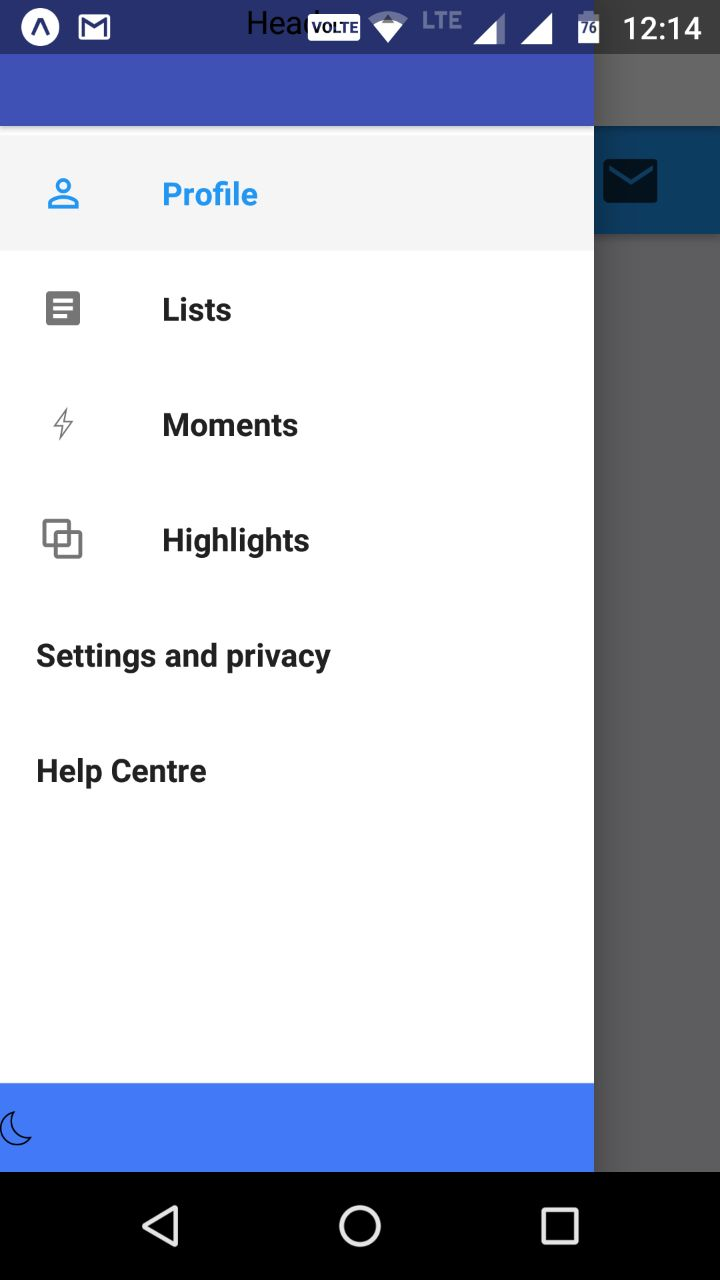
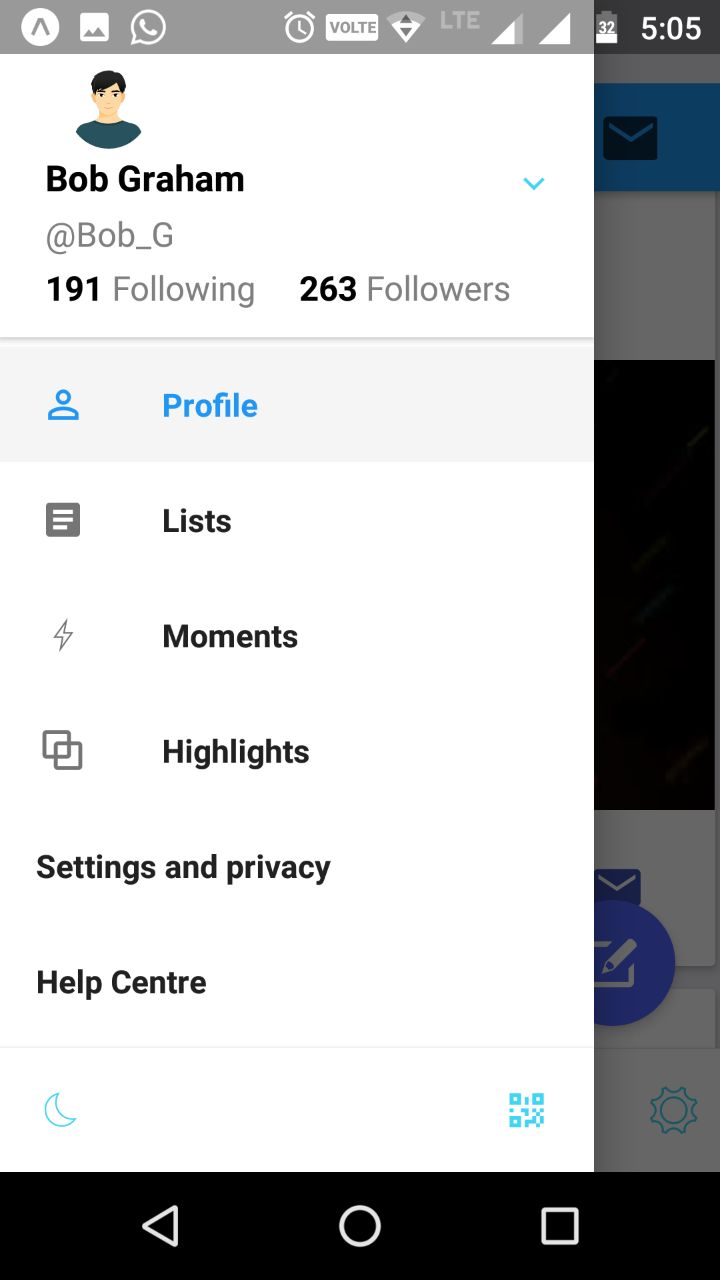
styles and config

diff --git a/Home.js b/Home.js
@@ -1,20 +1,16 @@
 import React from 'react';
-import { AppRegistry, ScrollView, Image, StyleSheet,TouchableOpacity,View} from 'react-native';
-import { Button,  Icon, Footer, FooterTab, Header, Left,Right,Content,Card,CardItem ,Container,Body,Thumbnail,  Item, Input,  Text,} from "native-base";
-import { EvilIcons,MaterialIcons,Ionicons,MaterialCommunityIcons, Feather } from '@expo/vector-icons';
-import { Font } from 'expo';
+import { AppRegistry, ScrollView, Image, StyleSheet,TouchableOpacity} from 'react-native';
+import { Button,  Icon, Footer, FooterTab, Header, Left,Right,Content,Card,CardItem ,Container,Body,Thumbnail,  Item, Input,  Text,Fab ,View,Spinner} from "native-base";
+import { EvilIcons,MaterialIcons,Ionicons,MaterialCommunityIcons, Feather,Entypo } from '@expo/vector-icons';
+
 export default class Home extends React.Component {
-  componentDidMount() {
-    Font.loadAsync({
-      //'open-sans-bold': require('./assets/fonts/OpenSans-Bold.ttf'),
-      'Roboto_medium': require('./assets/fonts/Roboto-Medium.ttf'),
-    });
-  }
+
+
   static navigationOptions = {
   //  title: 'Home',
     tabBarLabel: 'Home',
     tabBarIcon: ({ tintColor }) => (
-        <Icon name="home" /*style={[{ tintColor: tintColor }]}*/  />
+        <Icon name="home"   />
 
     ),
     header:<View style={{flexDirection:'row'}}><Thumbnail small source={require('./face4.png')} style={{left:10}} /><Text style={{left:15,padding:5, fontSize:20}} >Home</Text></View>
@@ -25,9 +21,23 @@ export default class Home extends React.Component {
 
 
         <Container>
-      <Header />
+
+        <Fab
+          active="false"
+
+          style={{ backgroundColor: '#5067FF',position: "absolute", bottom: 45, right: 0  }}
+          position="bottomRight"
+          >
+
+          <Entypo name="new-message" />
+
+        </Fab>
+
       <Content>
+<Spinner />
+
       <ScrollView>
+
         <Card>
           <CardItem>
             <Left>
@@ -53,7 +63,7 @@ export default class Home extends React.Component {
 
 
               <Button transparent>
-                <EvilIcons name="refresh"  size={20} />
+                <EvilIcons name="retweet"  size={20} />
                 <Text>4</Text>
               </Button>
               <Button transparent>
@@ -94,7 +104,7 @@ export default class Home extends React.Component {
 
 
               <Button transparent>
-                <EvilIcons name="refresh"  size={20} />
+                <EvilIcons name="retweet"  size={20} />
                 <Text>7</Text>
               </Button>
               <Button transparent>
@@ -135,7 +145,7 @@ export default class Home extends React.Component {
 
 
               <Button transparent>
-                <EvilIcons name="refresh"  size={20} />
+                <EvilIcons name="retweet"  size={20} />
                 <Text>10</Text>
               </Button>
               <Button transparent>
@@ -152,8 +162,9 @@ export default class Home extends React.Component {
           </CardItem>
         </Card>
         </ScrollView>
+
       </Content>
-      <Footer>
+      <Footer style={{backgroundColor:"white"}}>
 
 
 
@@ -165,7 +176,7 @@ export default class Home extends React.Component {
 
 
           <Right >
-            <Icon style={styles.bigblue} name="ios-settings-outline" />
+            <Icon style={styles.bigblue} name="ios-settings-outline" size={20} />
 
           </Right>
 
@@ -173,19 +184,19 @@ export default class Home extends React.Component {
 
     </Container>
 
-    );
-  }
+  );
+}
 }
 const styles = StyleSheet.create({
   bigblue: {
     padding:10,
-    color: 'blue',
+    color: '#42d4f4',
 
 
   },
   red: {
     padding: 10,
-    fontSize: 30,
+    fontSize: 15,
 
   },
 });

diff --git a/Drawers.js b/Drawers.js
@@ -1,9 +1,9 @@
 import React from 'react';
 import { DrawerNavigator,DrawerItems } from 'react-navigation';
-import {Icon,Footer,Header,Left,Right} from "native-base";
+import {Icon,Footer,Header,Left,Right,Card,CardItem,Thumbnail,Body, Container,Content,Text,} from "native-base";
 import { EvilIcons,MaterialIcons,Ionicons,MaterialCommunityIcons } from '@expo/vector-icons';
 import {Stacks} from './Stack.js';
-import {Image, ScrollView,Text,View} from 'react-native'
+import {Image,View,ScrollView} from 'react-native'
 //import Search from './Search.js';
 //import Alerts from './Alerts.js';
 //import Mail from './Mail.js';
@@ -85,13 +85,25 @@ drawerToggleRoute: 'DrawerToggle',
 
   },
   contentComponent: props =>
-  <View>
-  <Header><Text>Header</Text></Header>
-   <DrawerItems {...props} />
-   <Footer style={{ position: 'absolute',
-    height: 40,
-    left: 0, bottom:-150 }}><Left><Ionicons  name="ios-moon-outline" size={20}/></Left>
-    <Right></Right></Footer>
- </View>
+  <Container>
+        <Header style={{height:150,backgroundColor:"white"}}>
+        <View style={{flex: 1, flexDirection: 'column',marginTop:30,marginLeft:10}}>
+        <View><Thumbnail small source={require('./face4.png')} style={{left:10}} /></View>
+      <View style={{marginBottom:2,marginTop:2}}><Text style={{fontWeight:"bold"}}>Bob Graham</Text><Right><Ionicons  style={{right:-100, color:"#42d4f4" }} name="ios-arrow-down" size={15}/></Right></View>
+      <View style={{marginBottom:2,marginTop:2}}><Text style={{color:"grey",fontSize:15}}>@Bob_G</Text></View>
+      <View style={{marginBottom:2,marginTop:2,flexDirection: 'row'}}><Text style={{fontWeight:"bold",fontSize:15}}>191</Text><Text style={{color:"grey",fontSize:15}}> Following   </Text><Text style={{fontWeight:"bold",fontSize:15}}>  263</Text><Text style={{color:"grey",fontSize:15}}> Followers</Text></View>
+
+       </View>
+
+        </Header>
+        <Content>
+
+
+        <ScrollView ><DrawerItems {...props} /></ScrollView>
+        </Content>
+        <Footer style={{backgroundColor:"white",}}><Left><Ionicons  style={{color:"#42d4f4",paddingLeft:20}} name="ios-moon-outline" size={20}/></Left>
+         <Right><MaterialCommunityIcons   style={{color:"#42d4f4",paddingRight:20}} name="qrcode" size={20}/></Right></Footer>
+      </Container>
+
 },
 );

diff --git a/App.js b/App.js
@@ -3,9 +3,40 @@ import { AppRegistry, ScrollView, Image, Text} from 'react-native';
 import {Stacks} from './Stack.js';
 import {Tabs} from './Tab.js';
 import {Drawers} from './Drawers.js';
+//import { Font } from 'expo';
+
 
 export default class App extends React.Component {
+  /*componentDidMount() {
+     Font.loadAsync({
+
+       'Roboto_medium': require('./assets/fonts/Roboto-Medium.ttf'),
+     });
+   }*/
+   constructor() {
+     super();
+     this.state = {
+       isReady: false
+     };
+   }
+   componentWillMount() {
+     this.loadFonts();
+   }
+   async loadFonts() {
+     await Expo.Font.loadAsync({
+       Roboto: require("native-base/Fonts/Roboto.ttf"),
+       Roboto_medium: require("native-base/Fonts/Roboto_medium.ttf"),
+       Ionicons: require("@expo/vector-icons/fonts/Ionicons.ttf")
+     });
+     this.setState({ isReady: true });
+   }
+
   render() {
-      return (<Drawers/>);
+    if (!this.state.isReady) {
+      return <Expo.AppLoading />;
+    }
+      return (
+        <Drawers/>
+        );
   }
 }

diff --git a/Tab.js b/Tab.js
@@ -7,7 +7,7 @@ import Search from './Search.js';
 import Alerts from './Alerts.js';
 import Mail from './Mail.js';
 export const Tabs = TabNavigator({
-  Home: {
+ Home: {
     screen: Home,
   },
   Search: {
